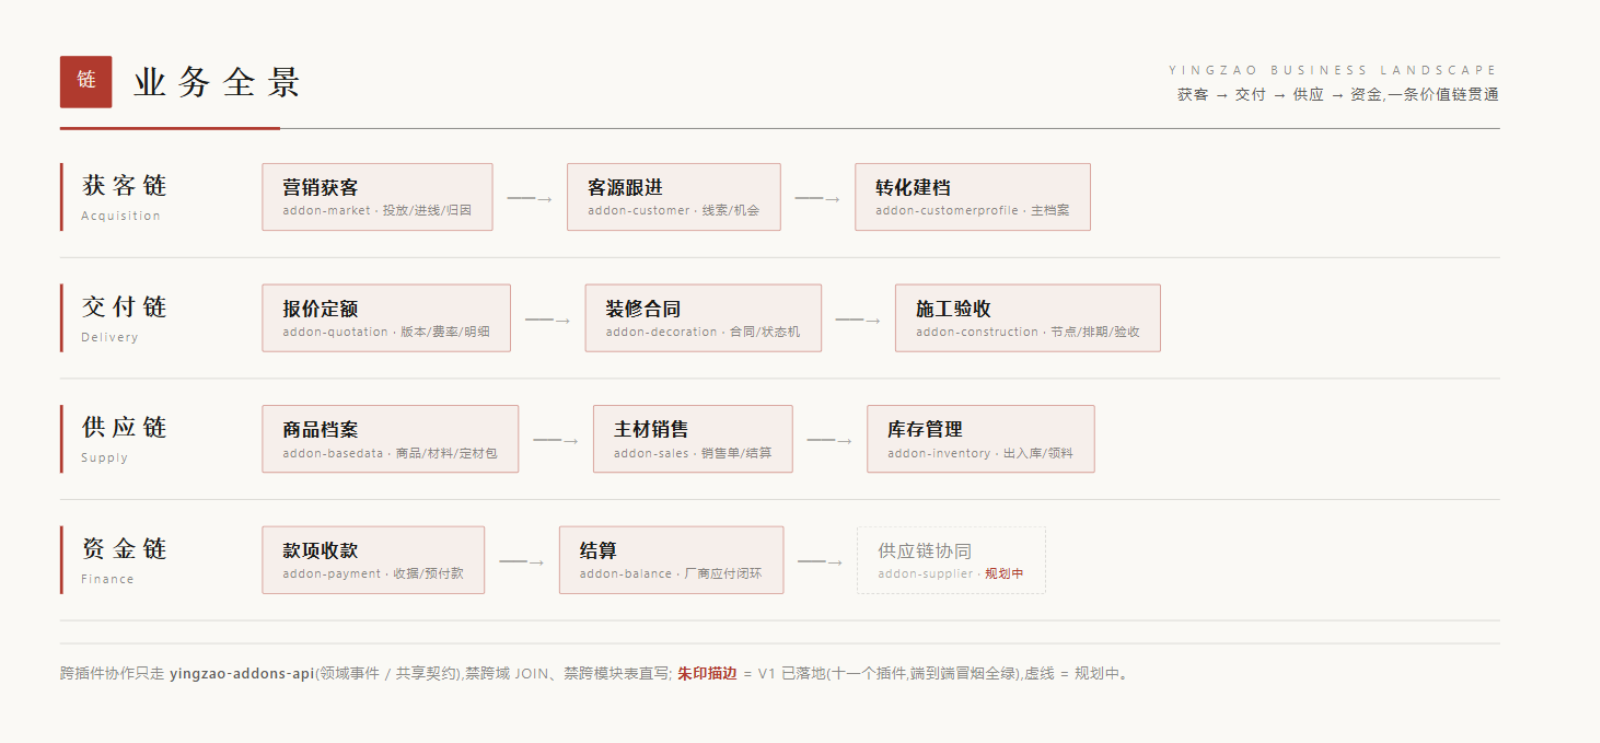
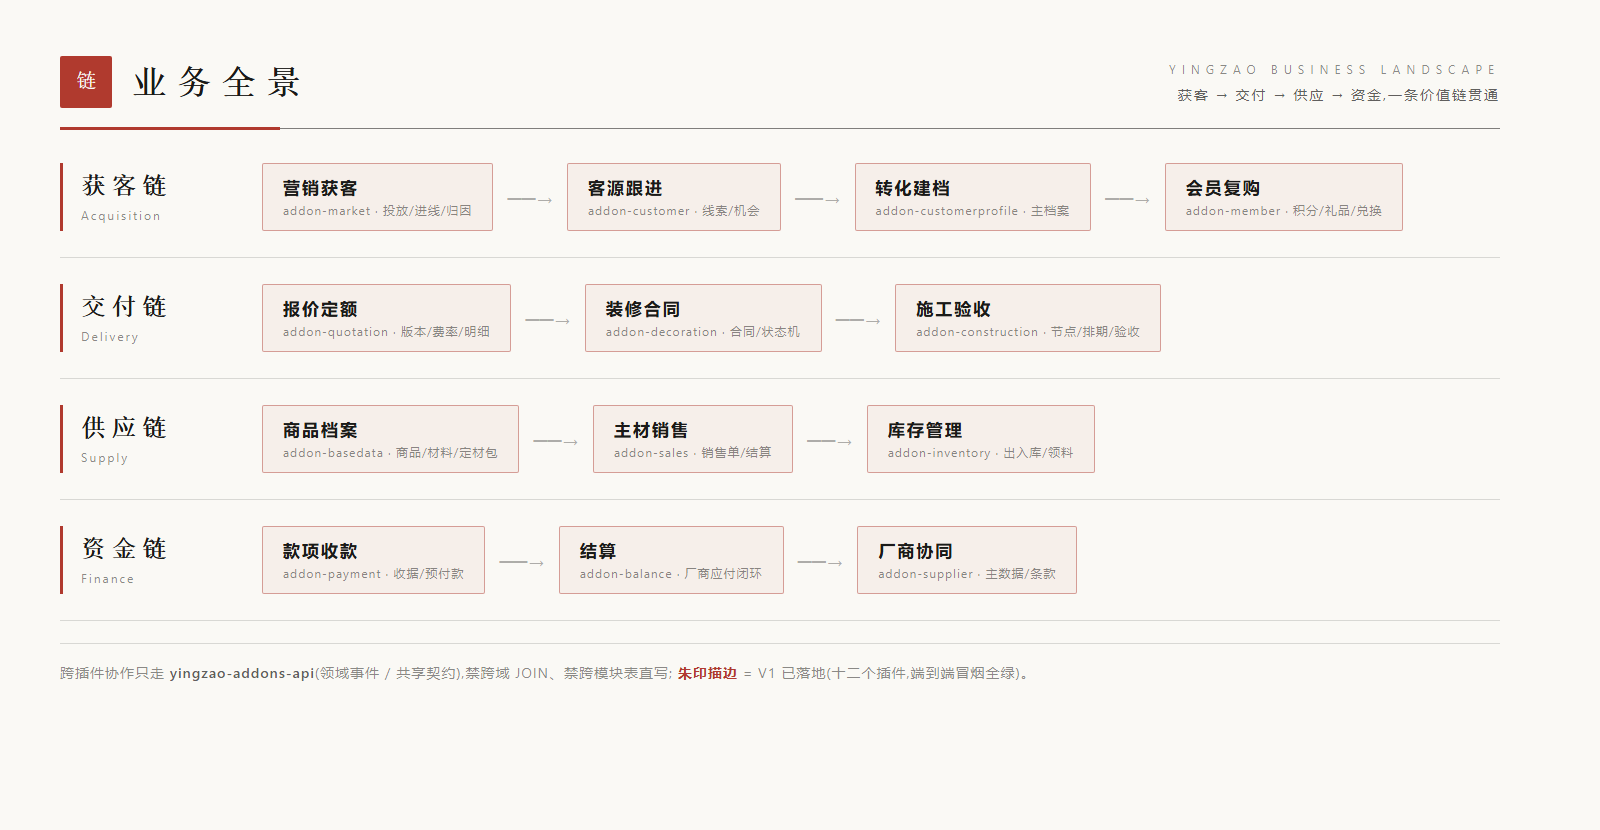
docs(readme): 业务全景与插件状态对齐现势——supplier/member 转正+决算检查入表(第 47 次补课)。①业务全景表:addon-supplier(规划中→V1 已落地,补厂商主数据/品牌关联/三层条款描述)+addon-member(规划中→V1 已落地,补活动/积分/兑换描述)+addon-decoration 行补「决算六项前置检查(组织级可配)」;②核心特性「十个业务插件」→「十二个」;③路线图 Phase 2.5 注记已落地项(RBAC v2/供应商/会员营销),余 Excel 导入器与客户端工程,Phase 2 的 11 插件系当时交付范围保留原样;④业务

diff --git a/docs/design/business-landscape.html b/docs/design/business-landscape.html
@@ -109,6 +109,8 @@
       <div class="node hot"><span class="t">客源跟进</span><span class="a">addon-customer · 线索/机会</span></div>
       <div class="arrow">──→</div>
       <div class="node hot"><span class="t">转化建档</span><span class="a">addon-customerprofile · 主档案</span></div>
+      <div class="arrow">──→</div>
+      <div class="node hot"><span class="t">会员复购</span><span class="a">addon-member · 积分/礼品/兑换</span></div>
     </div>
   </div>
 
@@ -150,14 +152,14 @@
       <div class="arrow">──→</div>
       <div class="node hot"><span class="t">结算</span><span class="a">addon-balance · 厂商应付闭环</span></div>
       <div class="arrow">──→</div>
-      <div class="node planned"><span class="t">供应链协同</span><span class="a">addon-supplier · <span class="plan">规划中</span></span></div>
+      <div class="node hot"><span class="t">厂商协同</span><span class="a">addon-supplier · 主数据/条款</span></div>
     </div>
   </div>
 
   <div class="foot">
     <p class="note">
       跨插件协作只走 <b>yingzao-addons-api</b>(领域事件 / 共享契约),禁跨域 JOIN、禁跨模块表直写;
-      <span class="seal-t">朱印描边</span> = V1 已落地(十一个插件,端到端冒烟全绿),虚线 = 规划中。
+      <span class="seal-t">朱印描边</span> = V1 已落地(十二个插件,端到端冒烟全绿)。
     </p>
   </div>
 </body>

diff --git a/README.md b/README.md
@@ -125,10 +125,10 @@
 <summary>文字版业务全景(无图环境 / 可搜索)</summary>
 
 ```text
-获客链:  渠道/进线/归因(addon-market) ─→ 线索/跟进(addon-customer) ─→ 转化建档(addon-customerprofile)
+获客链:  渠道/进线/归因(addon-market) ─→ 线索/跟进(addon-customer) ─→ 转化建档(addon-customerprofile) ─→ 会员复购(addon-member)
 交付链:  报价定额(addon-quotation) ─→ 装修合同(addon-decoration) ─→ 施工节点/排期/验收(addon-construction)
 供应链:  商品/材料档案(addon-basedata) ─→ 主材销售(addon-sales) ─→ 库存/材料(addon-inventory / addon-material)
-资金链:  款项/收款(addon-payment) ─→ 结算(addon-balance) ─→ 供应链协同(addon-supplier)
+资金链:  款项/收款(addon-payment) ─→ 结算(addon-balance) ─→ 厂商协同(addon-supplier)
 ```
 
 </details>
@@ -140,15 +140,15 @@
 | `addon-customerprofile` | 客户档案:城市/楼盘/房屋、客户主档(手机加密+读取留痕)、收款账户 | ✅ V1 已落地 |
 | `addon-basedata` | 基础数据:品类/品牌/商品/SKU/价格体系/套餐/型号/定材包 | ✅ V1 已落地 |
 | `addon-quotation` | 报价:版本费率、功能区分组明细、服务端金额聚合、锁定/审核双线 | ✅ V1 已落地 |
-| `addon-decoration` | 装修单:登记七联动、四线状态机、签约拆款、量房/确认/终止审批 | ✅ V1 已落地 |
+| `addon-decoration` | 装修单:登记七联动、四线状态机、签约拆款、量房/确认/终止审批、决算六项前置检查(组织级可配) | ✅ V1 已落地 |
 | `addon-construction` | 施工:放线点火、节点排期、比例闸、团队留痕、验收竣工 | ✅ V1 已落地 |
 | `addon-basedata` 套餐展开 / `addon-material` | 定材包成员展开、材料域(拆分归并裁决见 rules) | 🚧 V2 规划 |
 | `addon-sales` | 主材销售:四轴状态机、服务端算价、配送四级、结算三段式、退货审批链 | ✅ V1 已落地 |
 | `addon-inventory` | 库存:单据即库存、12 类货单、领料额度双闸、外辅采购全状态机 | ✅ V1 已落地 |
 | `addon-balance` | 结算:结算汇聚(事件快照吸附)、账户双腿、扣款池、完结唯一定义 | ✅ V1 已落地 |
 | `addon-payment` | 款项:款项单、统一收据双人留痕、预付款科目台账、退款走审批 | ✅ V1 已落地 |
-| `addon-supplier` | 供应链协同(厂商协同) | 🚧 规划中 |
-| `addon-member` | 会员营销(积分商城,自 sales/information 拆分归并) | 🚧 规划中 |
+| `addon-supplier` | 厂商协同:厂商主数据(查重下沉 DB)、品牌关联、三层结算条款、ext_no 幂等同步 | ✅ V1 已落地 |
+| `addon-member` | 会员营销:活动/礼品库存/积分账户(事件驱动记账)/兑换单、签约自动核销 | ✅ V1 已落地 |
 
 > 完整的模块判定过程(老系统 41 模块逐一过堂)见 [docs/01-剔除保留清单.md](docs/01-剔除保留清单.md);各插件的实现口径(状态机/金额/字典)见 [docs/rules/](docs/rules),业务闭环见 [docs/prd/](docs/prd)。
 
@@ -156,7 +156,7 @@
 
 - **插件化架构(自研)**——编译期装配的插件框架:`addon.yml` 清单、扩展点钩子、领域事件、前端槽位注册表、数据扩展约定。公司差异零侵入核心;
 - **事件总线(outbox 三件套)**——同事务落箱、失败指数退避重试、死信可见可重放;跨插件协作 = 领域事件 + addons-api 契约(如营销进线→客源承接→回写),无跨域 JOIN、无跨模块表直写;
-- **行业全链条**——获客 → 建档 → 报价 → 合同 → 施工 → 材料 → 结算,一条价值链贯通,十个业务插件 V1 已落地并端到端冒烟;
+- **行业全链条**——获客 → 建档 → 报价 → 合同 → 施工 → 材料 → 结算,一条价值链贯通,十二个业务插件 V1 已落地并端到端冒烟;
 - **一码多端**——Web 管理后台(Vue3 + Element Plus)+ uni-app(微信小程序 + APP)+ 企微/钉钉免登 H5,一套账号体系收口;前端按 `GET /api/addons` 下发的插件清单动态注册路由/菜单/槽位,插件页面即插即显;
 - **干净的数据模型**——无历史包袱:业务状态机显式化(迁移表白名单)、金额统一最小单位(厘)、查重下沉 DB 唯一约束、PII 字段加密(AES-256-GCM)+ 读取留痕、错误码按插件分段、i18n 中英双语从第一行代码开始;
 - **可审计的演进**——Flyway 全程管理 schema(内核与各插件独立版本分段),文档金字塔(需求规格书 / RFC / PRD / 规则清单)先于代码。
@@ -250,7 +250,7 @@ cd app && npm install && npm run dev:h5
 | Phase 0 | 插件框架 spike + 客源→客户最小链路 + 全端骨架 | ✅ 完成 |
 | Phase 1 | 平台内核正式版:RBAC、事件总线(outbox 三件套)、通知中心、轻量审批流、加密盒、i18n | ✅ 完成 |
 | Phase 2 | 行业插件套件 V1:营销获客/客源/档案/基础数据/报价/装修单/施工/销售/库存/款项/结算(11 个插件端到端冒烟全绿) | ✅ V1 完成 |
-| Phase 2.5 | 插件 V1.x 增强:Excel 导入器、RBAC v2 端点鉴权、供应商/会员营销插件、客户端独立工程(C 端:案例/进度/保修/积分) | 🚧 进行中 |
+| Phase 2.5 | 插件 V1.x 增强:RBAC v2 端点鉴权、供应商/会员营销插件、插件能力增强(决算六项检查等)——均已落地;余 Excel 导入器、客户端独立工程(C 端:案例/进度/保修/积分) | 🚧 进行中 |
 | Phase 3 | 商业插件与插件市场、托管版 | 规划中 |
 
 ## 文档
